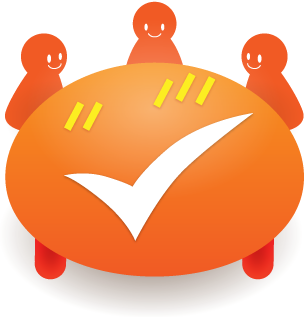
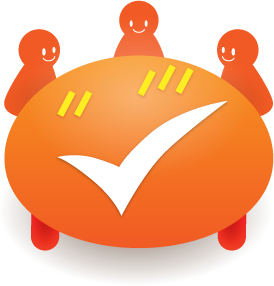
トップ画面のデザイン調整。メインビジュアルを少し小さく、ボタンを少し大きく

diff --git a/app/css/index.css b/app/css/index.css
@@ -19,8 +19,8 @@
 }
 
 .right-block {
-  padding-left: 40px;
-  width: 304px;
+  padding-left: 80px;
+  width: 275px;
   text-align: center;
 }
 
@@ -47,8 +47,8 @@ h1 {
 }
 
 .start-button {
-  width: 200px;
-  height: 41px;
+  width: 240px;
+  height: 50px;
   padding: 0;
   border: 0;
   background: url(../img/index/Start.png) no-repeat left top;
